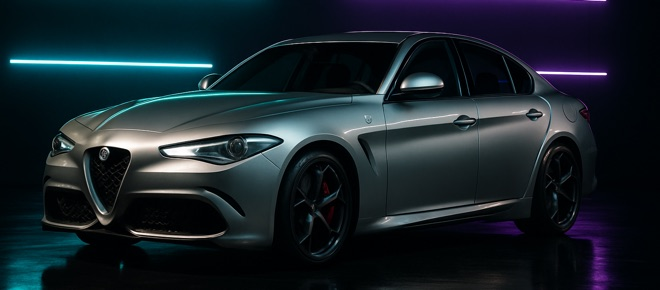
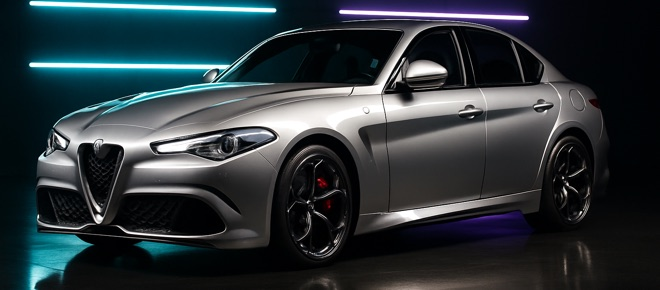
Toutes les illustrations reprises avec la lumière qui montre la voiture
Le décor néon mangeait le sujet : les carrosseries se noyaient dans le fond et la
carte ne montrait qu'une silhouette. Le prompt impose maintenant une vraie lumière
principale, large et douce, chaque panneau lisible, et surtout des néons qui
restent au second plan sans jamais dominer la voiture.

Les 31 illustrations existantes sont régénérées dans ce réglage, les huit
d'origine comprises — elles dataient d'un gabarit antérieur et juraient avec les
nouvelles. Le garage est homogène pour la première fois.

La cadence par défaut passe de quatre requêtes parallèles à deux : à quatre, la
moitié du lot repartait en 502. La génération d'images est bien plus contrainte
que l'analyse de texte, et un échec coûte une relance, pas une image perdue.

diff --git a/supabase/functions/render/index.ts b/supabase/functions/render/index.ts
@@ -23,9 +23,14 @@ const PROMPT = (make: string, model: string, body: string, paint: string) =>
   `Photorealistic photograph of a ${paint} ${make} ${model}, ${body}, ` +
   "in a dark showroom lit by horizontal neon light bars. " +
   "Three-quarter front view, camera slightly below the beltline, the whole car in frame with room around it. " +
-  "Cyan and violet neon strips glowing on the wall behind the car, their light reflected along the flanks " +
-  "and mirrored on a wet polished black floor, deep black shadows, cinematic rim lighting on the shoulder line, " +
-  "glossy paint with crisp highlights. " +
+  // Le sujet d'abord : sans une vraie lumière principale sur la carrosserie, la voiture
+  // se noyait dans le décor et la carte ne montrait qu'une silhouette.
+  "The car is the subject and is BRIGHTLY and EVENLY LIT by a large soft key light from the " +
+  "front left, every panel clearly readable, wheels and grille well exposed, no crushed blacks " +
+  "on the bodywork, bright specular highlights along the shoulder line. " +
+  "Cyan and violet neon strips glow on the wall behind, mirrored on a polished dark floor, " +
+  "but they stay in the background and never outshine the car. " +
+  "High-key automotive product photography, clean and luminous, glossy paint. " +
   "No text, no badges, no logos, no licence plate, no people, no props. " +
   "Wide landscape composition, the car filling most of the width, high-end automotive advertising look.";
 

diff --git a/tools/render-car-art.py b/tools/render-car-art.py
@@ -68,7 +68,8 @@ def main():
     parser = argparse.ArgumentParser()
     parser.add_argument("--limit", type=int)
     parser.add_argument("--ids", help="identifiants separes par des virgules")
-    parser.add_argument("--workers", type=int, default=4)
+    parser.add_argument("--workers", type=int, default=2,
+                        help="au-dela de 2, OpenAI refuse la moitie du lot")
     parser.add_argument("--yes", action="store_true", help="ne pas demander confirmation")
     args = parser.parse_args()
 
